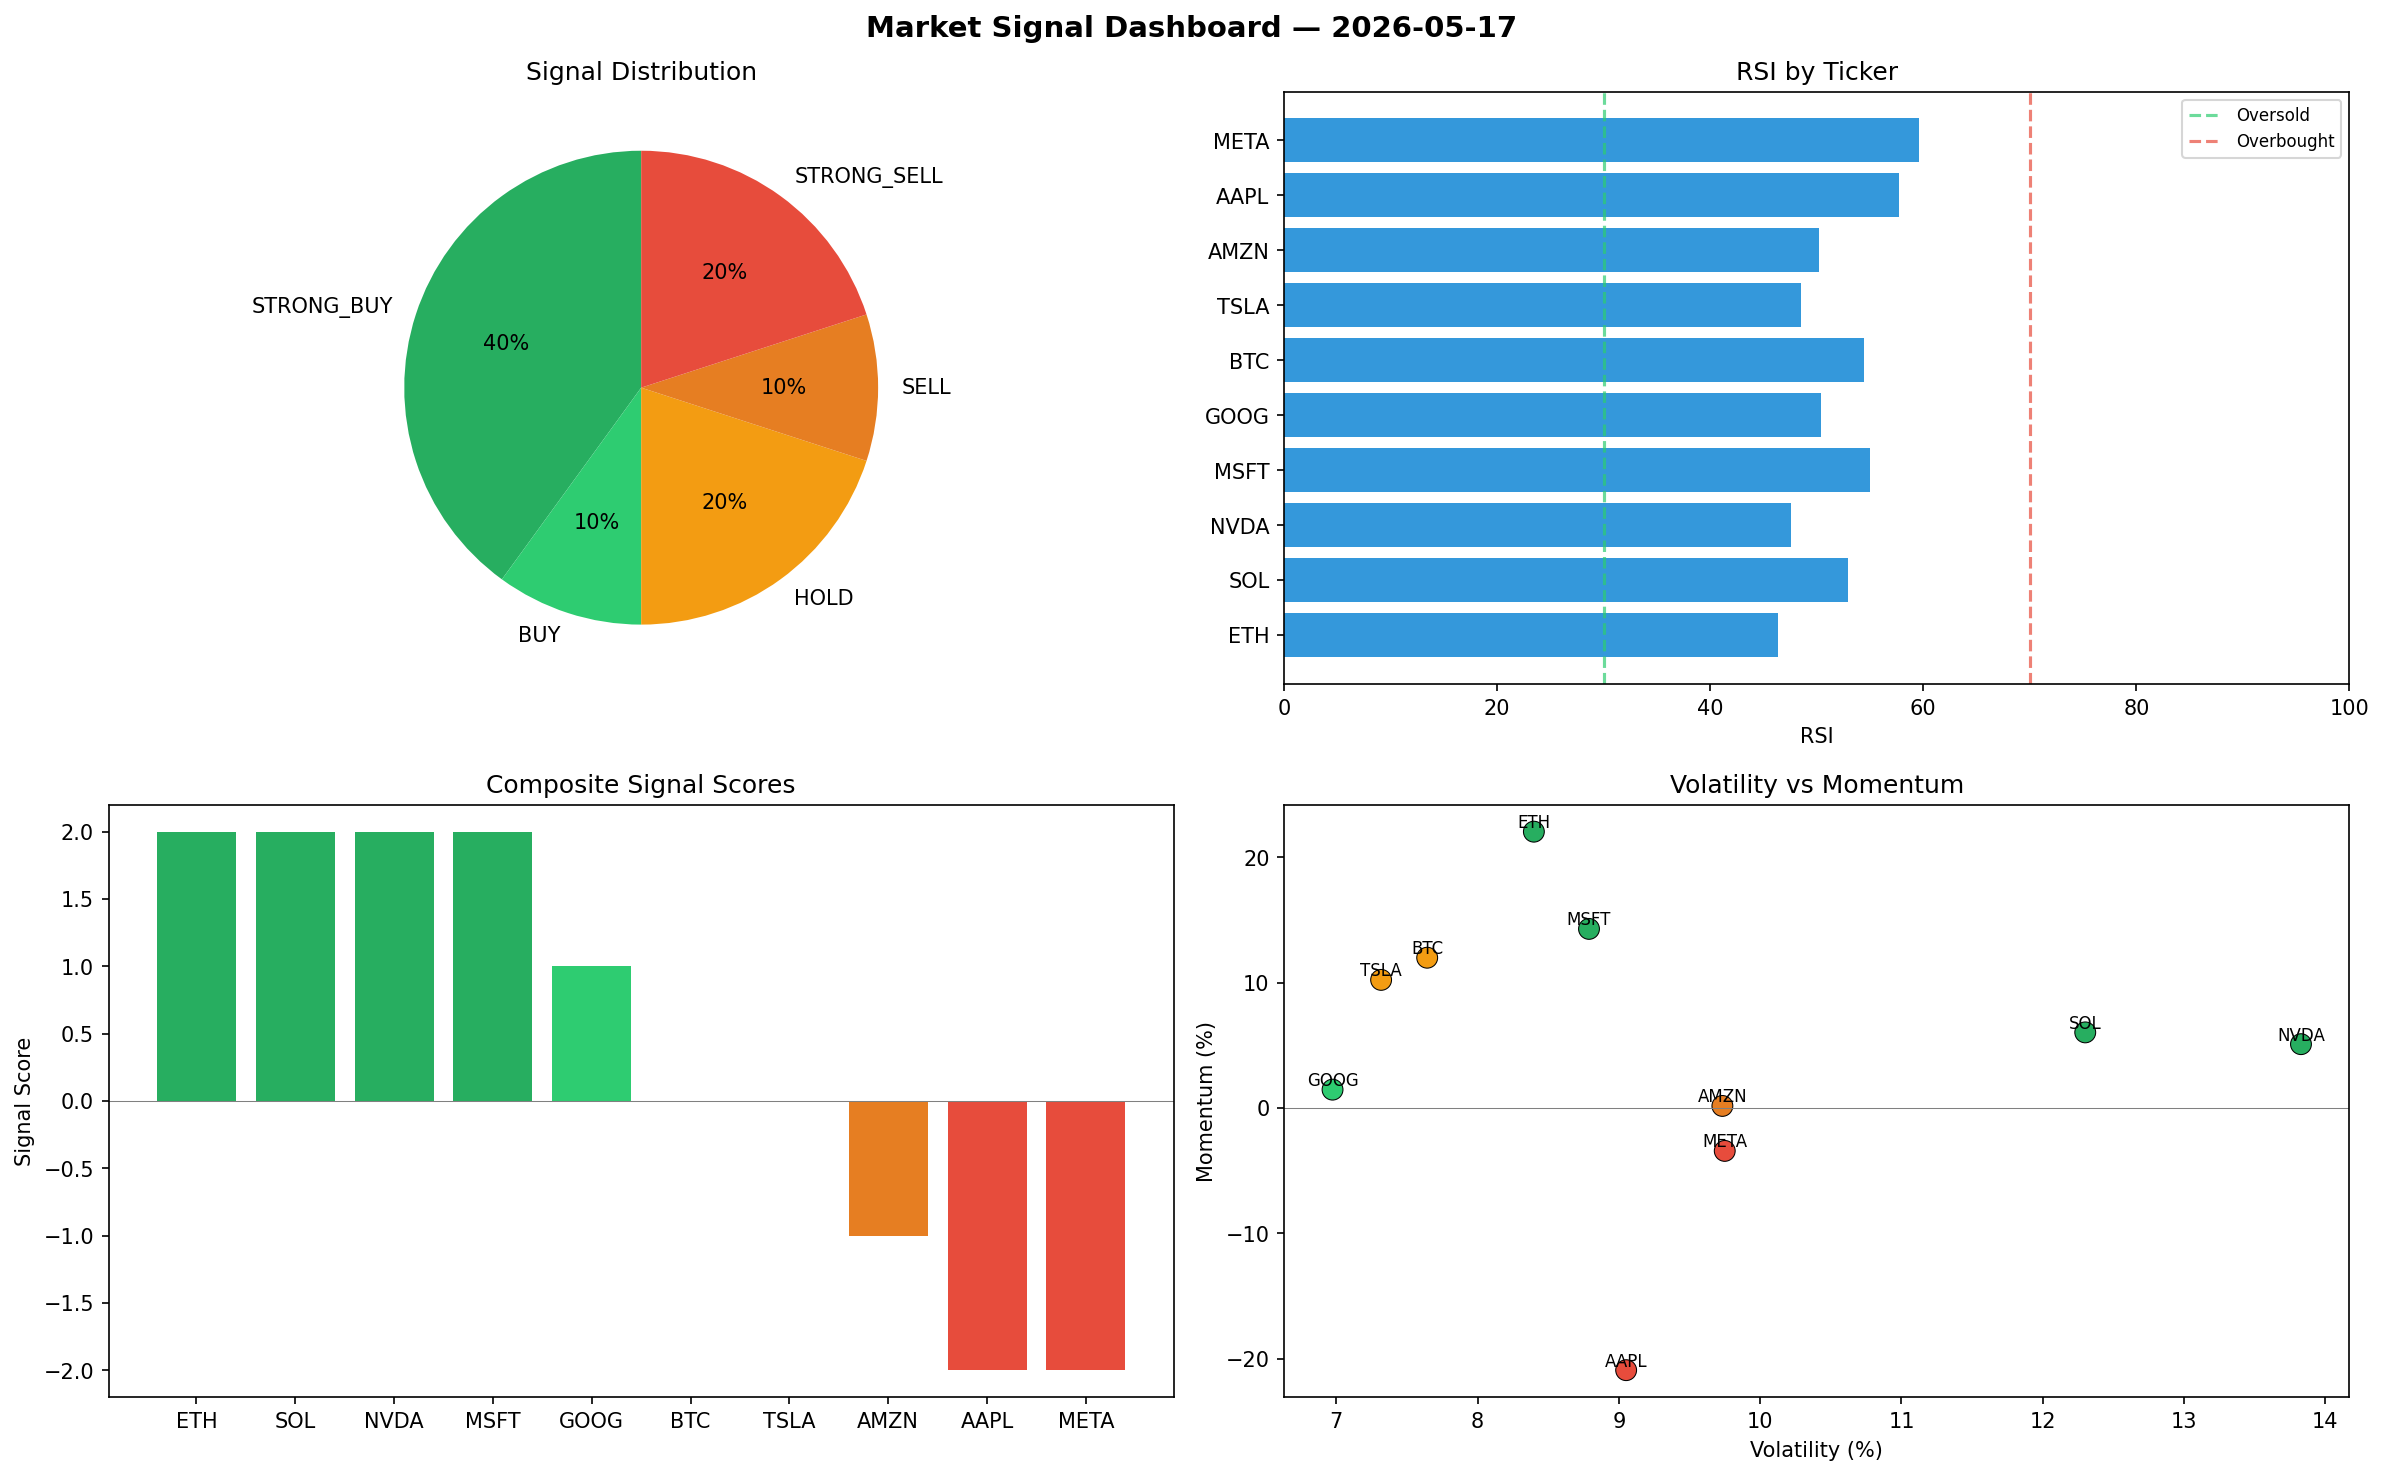
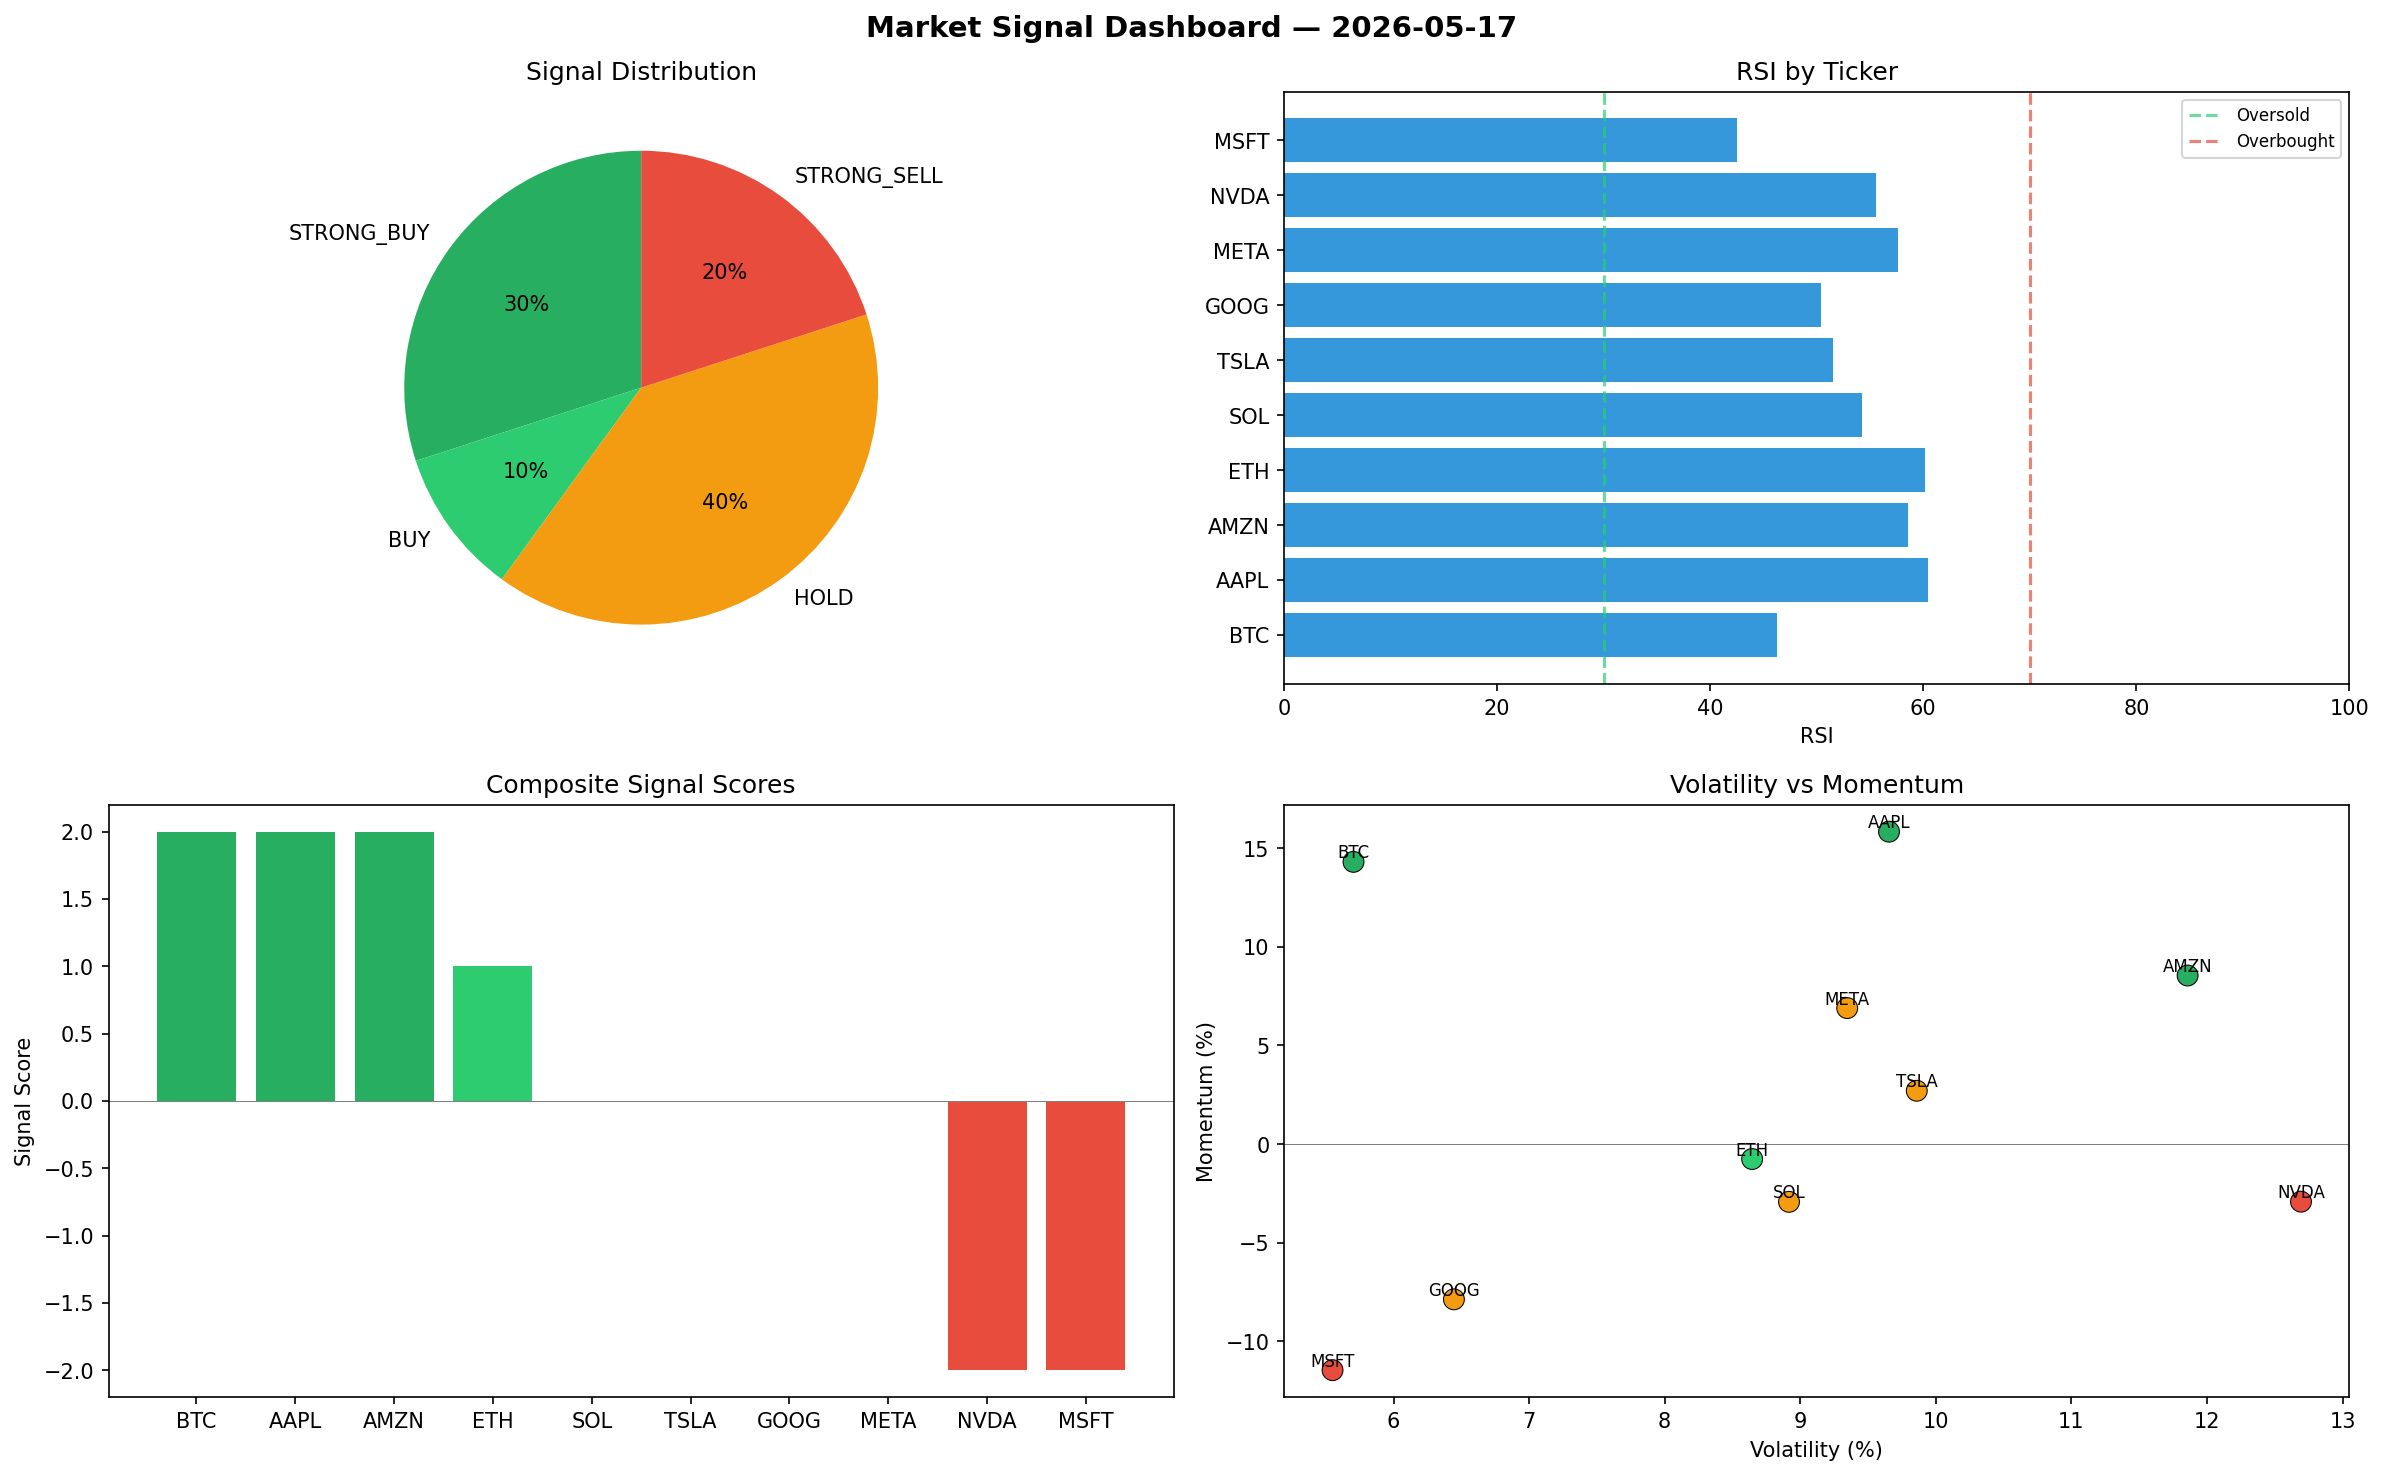
automated-bots: market signals 2026-05-17T10:06

diff --git a/logs/2026-05-17.md b/logs/2026-05-17.md
@@ -1,6 +1,6 @@
 # Market Signal Report — 2026-05-17
 
-**Run ID:** `8934d36fdf` | **Buy:** 5 | **Sell:** 3 | **Hold:** 2
+**Run ID:** `900c56c9a4` | **Buy:** 4 | **Sell:** 2 | **Hold:** 4
 
 ![Dashboard](2026-05-17_dashboard.png)
 
@@ -8,28 +8,28 @@
 
 | Ticker | Price | Signal | Score | RSI | Momentum | Confidence |
 |--------|-------|--------|-------|-----|----------|------------|
-| ETH | $5356.77 | **STRONG_BUY** | 2 | 46.33 | 0.2205 | 0.5 |
-| SOL | $4832.39 | **STRONG_BUY** | 2 | 52.95 | 0.0603 | 0.5 |
-| NVDA | $4797.55 | **STRONG_BUY** | 2 | 47.59 | 0.0509 | 0.5 |
-| MSFT | $84.0 | **STRONG_BUY** | 2 | 55.02 | 0.1429 | 0.5 |
-| GOOG | $3307.63 | **BUY** | 1 | 50.37 | 0.0146 | 0.25 |
-| BTC | $4345.11 | **HOLD** | 0 | 54.48 | 0.1199 | 0.0 |
-| TSLA | $661.24 | **HOLD** | 0 | 48.52 | 0.1022 | 0.0 |
-| AMZN | $480.01 | **SELL** | -1 | 50.18 | 0.0016 | 0.25 |
-| AAPL | $900.64 | **STRONG_SELL** | -2 | 57.71 | -0.2093 | 0.5 |
-| META | $4213.0 | **STRONG_SELL** | -2 | 59.6 | -0.0343 | 0.5 |
+| BTC | $4117.52 | **STRONG_BUY** | 2 | 46.25 | 0.143 | 0.5 |
+| AAPL | $4324.04 | **STRONG_BUY** | 2 | 60.44 | 0.1583 | 0.5 |
+| AMZN | $3200.12 | **STRONG_BUY** | 2 | 58.61 | 0.0854 | 0.5 |
+| ETH | $3877.31 | **BUY** | 1 | 60.15 | -0.0076 | 0.25 |
+| SOL | $2391.97 | **HOLD** | 0 | 54.2 | -0.0293 | 0.0 |
+| TSLA | $1607.58 | **HOLD** | 0 | 51.55 | 0.027 | 0.0 |
+| GOOG | $3134.94 | **HOLD** | 0 | 50.43 | -0.0787 | 0.0 |
+| META | $1678.7 | **HOLD** | 0 | 57.65 | 0.0689 | 0.0 |
+| NVDA | $85.7 | **STRONG_SELL** | -2 | 55.58 | -0.0292 | 0.5 |
+| MSFT | $3239.65 | **STRONG_SELL** | -2 | 42.49 | -0.1146 | 0.5 |
 
 ## Delta vs Yesterday
 
 | Ticker | Today | Yesterday | Price Change | Signal Changed |
 |--------|-------|-----------|-------------|----------------|
-| ETH | STRONG_BUY | STRONG_SELL | 📈 44.27% | ⚠ YES |
-| SOL | STRONG_BUY | SELL | 📈 4113.8% | ⚠ YES |
-| NVDA | STRONG_BUY | HOLD | 📈 82.68% | ⚠ YES |
-| MSFT | STRONG_BUY | HOLD | 📉 -55.14% | ⚠ YES |
-| GOOG | BUY | STRONG_SELL | 📈 765.12% | ⚠ YES |
-| BTC | HOLD | STRONG_SELL | 📈 3318.92% | ⚠ YES |
-| TSLA | HOLD | STRONG_BUY | 📉 -63.84% | ⚠ YES |
-| AMZN | SELL | STRONG_SELL | 📈 9.5% | ⚠ YES |
-| AAPL | STRONG_SELL | HOLD | 📈 481.21% | ⚠ YES |
-| META | STRONG_SELL | SELL | 📈 78.48% | ⚠ YES |
+| BTC | STRONG_BUY | STRONG_SELL | 📈 3139.85% | ⚠ YES |
+| AAPL | STRONG_BUY | HOLD | 📈 2690.42% | ⚠ YES |
+| AMZN | STRONG_BUY | STRONG_SELL | 📈 630.0% | ⚠ YES |
+| ETH | BUY | STRONG_SELL | 📈 4.42% | ⚠ YES |
+| SOL | HOLD | SELL | 📈 1985.78% | ⚠ YES |
+| TSLA | HOLD | STRONG_BUY | 📉 -12.09% | ⚠ YES |
+| GOOG | HOLD | STRONG_SELL | 📈 719.96% | ⚠ YES |
+| META | HOLD | SELL | 📉 -28.88% | ⚠ YES |
+| NVDA | STRONG_SELL | HOLD | 📉 -96.74% | ⚠ YES |
+| MSFT | STRONG_SELL | HOLD | 📈 1630.12% | ⚠ YES |
